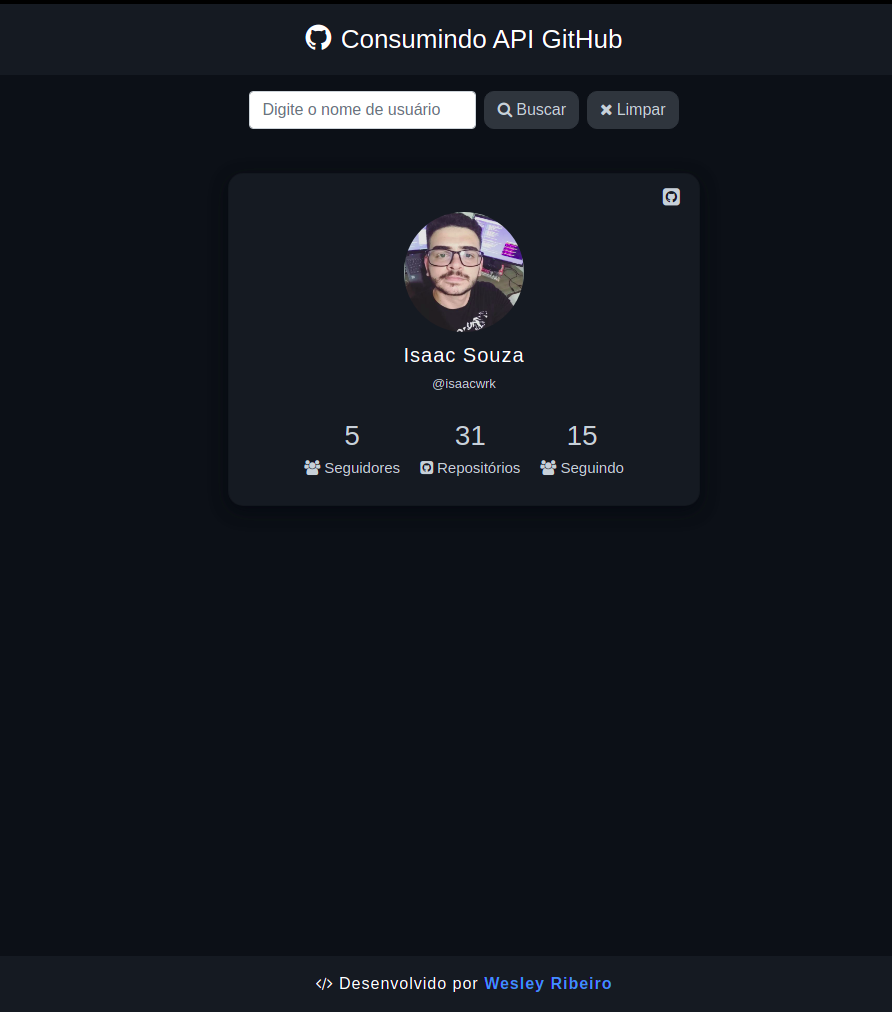
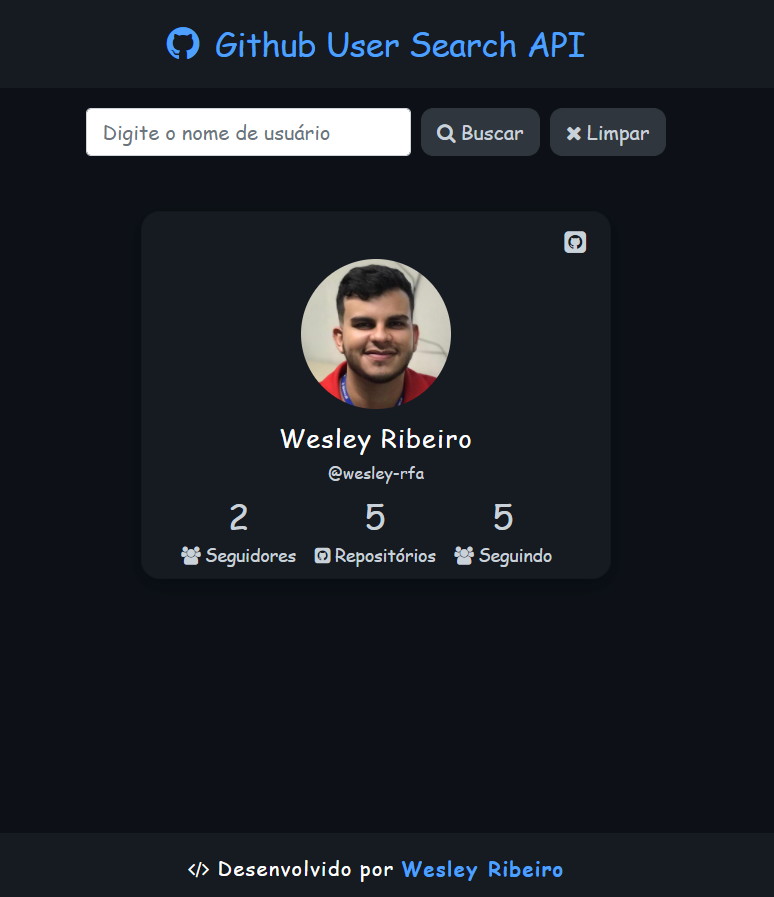
adicionando imagens e melhorando algumas funcionalidades

diff --git a/script.js b/script.js
@@ -1,11 +1,11 @@
+//------------------ESCONDE BOTÃO DE LIMPAR----------------//
 $("#btn_limpar").hide()
-
 
 //---------------------LIMPA CONTEÚDO----------------------//
 $("#btn_limpar").click(function () {
-    $(".card").css("transform", "translateX(2000px)")
-    setTimeout(function () { $("#conteudo").html("") }, 1000);
-    $("#btn_limpar").hide()
+    $(".card").css("transform", "translateX(200px)")
+    //setTimeout(function () { $("#conteudo").html("") }, 2000);
+    //$("#btn_limpar").hide()
 });
 
 //------------------BUSCA USUÁRIO NA API-------------------//
@@ -18,24 +18,24 @@ $("#btn_buscar").click(function () {
         beforeSend: function () {
         }, success: function (res) {
             let nome = res.name
-            let concat = `<div class="col-lg-3 align-items-center pt-2 card" onclick="abrirModalUser('${res.login}','${res.avatar_url}','${res.name}','${res.public_repos}','${res.followers}','${res.following}','${res.location}','${res.bio.replace(/(\r\n|\n|\r)/gm, " ")}','${res.html_url}','${res.created_at}','${res.updated_at}')">
+            let concat = `<div class="col-md-3 align-items-center pt-2 card" onclick="abrirModalUser('${res.login}','${res.avatar_url}','${res.name}','${res.public_repos}','${res.followers}','${res.following}','${res.location}','${res.bio.replace(/(\r\n|\n|\r)/gm, " ")}','${res.html_url}','${res.created_at}','${res.updated_at}')">
             <div class="align-self-end icon_git"><i class="fa fa-github-square mr-1"></i></div>
             <img src="${res.avatar_url}">
             <div class="mt-2 name">${res.name}</div>
             <div class="mt-1 user">@${res.login}</div>
-            <div class="row text-center mt-1 mb-2 p-2 infos">
-                <div class="info-item">
+            <div class="row text-center mt-1 mb-2 infos">
+                <span class="info-item">
                     <div class="number">${res.followers}</div>
-                    <div> <i class="fa fa-users mr-1"></i>Seguidores</div>
-                </div>
-                <div class="info-item">
+                    <div><i class="fa fa-users mr-1"></i>Seguidores</div>
+                </span>
+                <span class="info-item">
                     <div class="number">${res.public_repos}</div>
-                    <div> <i class="fa fa-github-square mr-1"></i>Repositórios</div>
-                </div>
-                <div class="info-item">
+                    <div><i class="fa fa-github-square mr-1"></i>Repositórios</div>
+                </span>
+                <span class=" info-item">
                     <div class="number">${res.following}</div>
-                    <div> <i class="fa fa-users mr-1"></i>Seguindo</div>
-                </div>
+                    <div><i class="fa fa-users mr-1"></i>Seguindo</div>
+                </span>
             </div>
         </div>`
             $("#conteudo").append(concat)
@@ -65,7 +65,7 @@ function abrirModalUser(login, foto, nome, repo, seguidores, seguindo, local, bi
 
     $("#modal_user").modal()
 
-    let concat = `<a href="${url}" target="_blank"><div class="row">
+    let card = `<a href="${url}" target="_blank"><div class="row">
     <div class="col-3 text-center">
         <img src="${foto}">
         <div class="mt-2 name">${nome}</div>
@@ -78,7 +78,6 @@ function abrirModalUser(login, foto, nome, repo, seguidores, seguindo, local, bi
         <div class="mt-2 topico ">Última atualização: <span >${dataAtualizacao}</span></div>
     </div>
 </div>
-
 
 <div class="row justify-content-center text-center mt-2 infos">
         <div class="info-item">
@@ -94,5 +93,5 @@ function abrirModalUser(login, foto, nome, repo, seguidores, seguindo, local, bi
             <div> <i class="fa fa-users mr-1"></i>Seguindo</div>
         </div>
 </div></a>`
-    $("#modal_conteudo").html(concat)
+    $("#modal_conteudo").html(card)
 }

diff --git a/style.scss b/style.scss
@@ -25,6 +25,10 @@ a{
     }
     .titulo {
         font-size: 26px;
+        color: #4ea0ff;
+        a{
+            color: #4ea0ff; 
+        }
     }
 }
 
@@ -58,6 +62,7 @@ a{
         transform: translate(0px);
     }
 }
+
 
 .card {
     animation-duration: 1s;
@@ -95,11 +100,10 @@ a{
     .infos {
         color: #c9d1d9;
         border-radius: 10px;
-        font-size: 15px;
+        font-size: 14px;
         font-weight: 300;
         .info-item {
-            padding: 5px;
-            margin: 5px;
+            margin-right: 15px;
             .number {
                 font-size: 28px;
                 font-weight: 500;

diff --git a/style.css b/style.css
@@ -6,7 +6,7 @@ body {
   overflow-x: hidden;
 }
 
-a{
+a {
   text-decoration: none;
 }
 
@@ -26,18 +26,11 @@ a:hover {
 
 .header .titulo {
   font-size: 26px;
+  color: #4ea0ff;
 }
 
-.titulo{
-  cursor: pointer;
-}
-
-.titulo a{
-  color: white;
-}
-
-.titulo a:hover{
-  color:#f0f0f0;
+.header .titulo a {
+  color: #4ea0ff;
 }
 
 #input_area .btn {
@@ -133,13 +126,12 @@ a:hover {
 .card .infos {
   color: #c9d1d9;
   border-radius: 10px;
-  font-size: 15px;
+  font-size: 14px;
   font-weight: 300;
 }
 
 .card .infos .info-item {
-  padding: 5px;
-  margin: 5px;
+  margin-right: 15px;
 }
 
 .card .infos .info-item .number {

diff --git a/README.MD b/README.MD
@@ -23,15 +23,19 @@ Com o JavaScript foi utilizado o JQquery e AJAX para requisições assíncronas.
 
 **1** - Através do campo de busca solicitar a API o usuário digitado.
 
-    1.1 - Caso o usuário digitado não seja encontrado é exibido um Modal com a mensagem de usuário não encontrado.
+**2** - Caso o usuário digitado não seja encontrado é exibido um Modal com a mensagem de usuário não encontrado.
     
-**2** - Ao encontrar o usuário é mostrado as principais informações em um Card principal, que contêm o nome, nome de usuário, quantidade de seguidores, repositórios e seguindo.
+**3** - Ao encontrar o usuário é mostrado as principais informações em um Card principal, que contêm o nome, nome de usuário, quantidade de seguidores, repositórios e seguindo.
 
-**3** - Ao clicar no Card abre um modal com informações mais detalhadas sobre o perfil e clicando no modal abre uma nova guia com o respectivo perfil no GitHub.
+**4** - Ao clicar no Card abre um modal com informações mais detalhadas sobre o perfil e clicando no modal abre uma nova guia com o respectivo perfil no GitHub.
 
-**4** - A medida que o usuário busca, os Cards se ajustam automáticamente ao espaço da tela.
+**5** - A medida que o usuário busca, os Cards se ajustam automáticamente ao espaço da tela.
 
-**5** - É possível limpar todas as buscas com o botão de limpar.
+**6** - É possível limpar todas as buscas com o botão de limpar.
 
 
 ![](ex/1.png)
+
+![](ex/2.png)
+
+![](ex/3.png)
